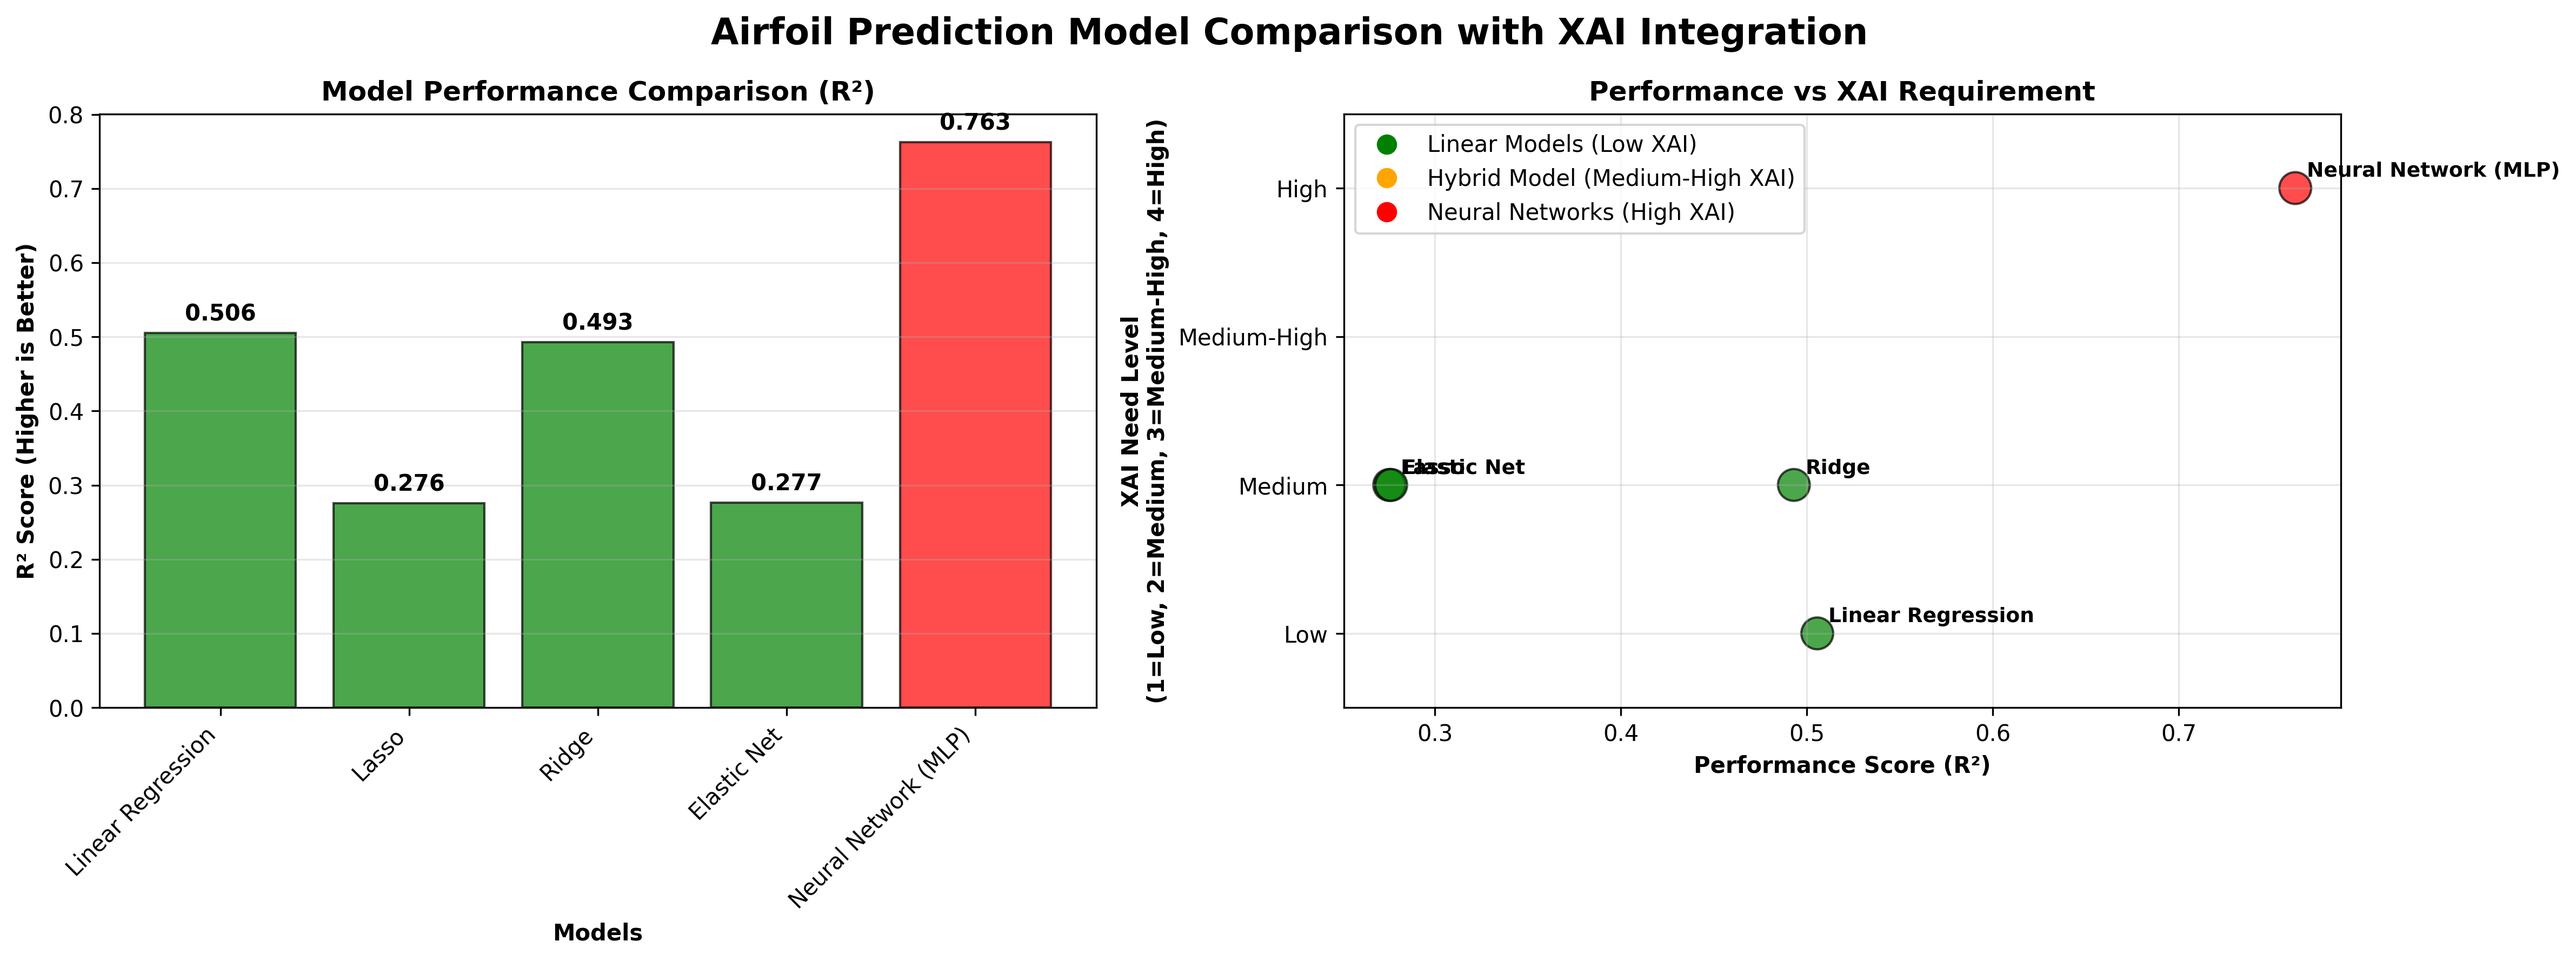
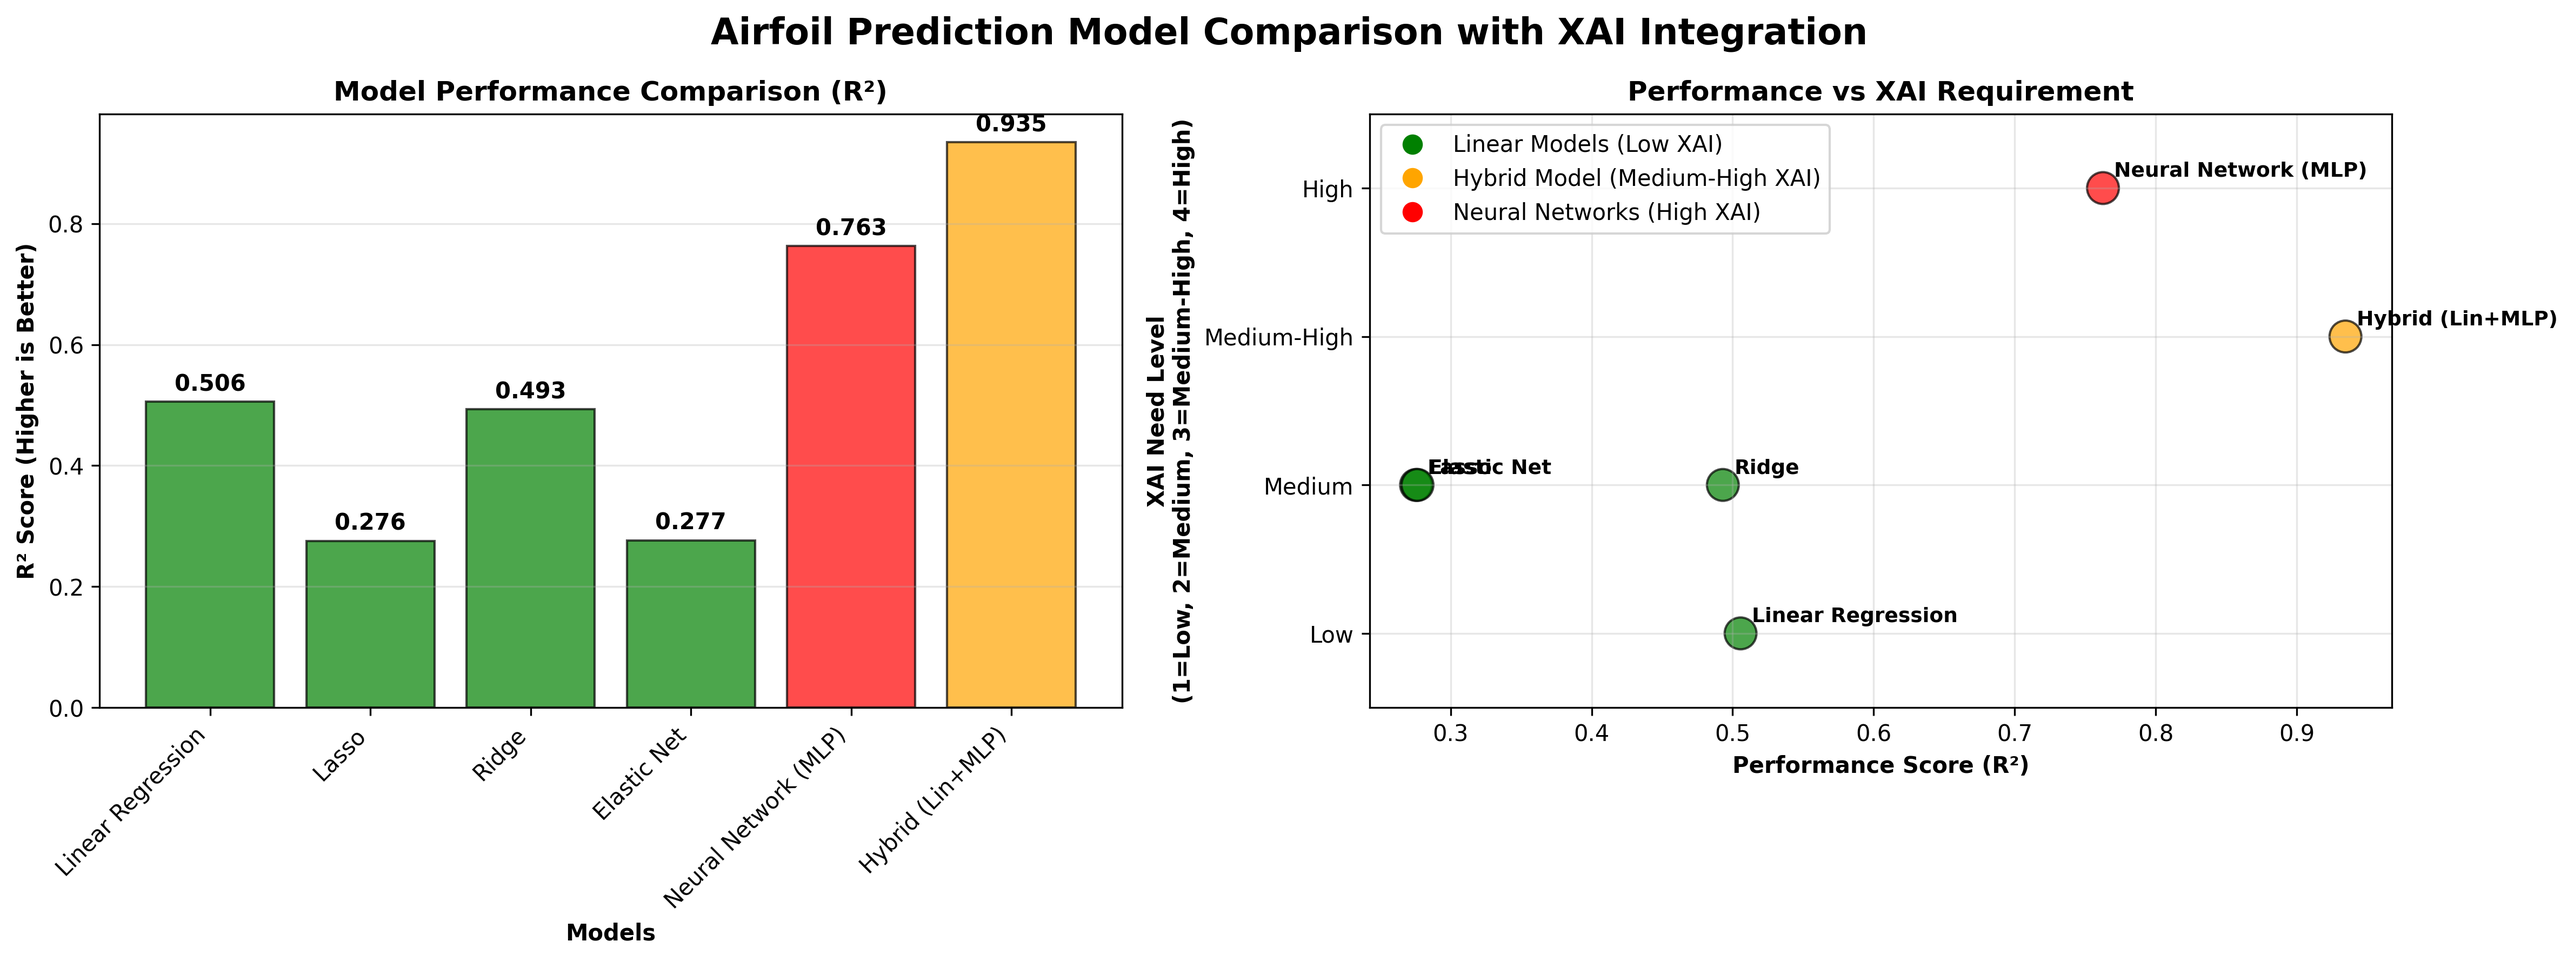
Update metrics with hybrid model results and improved visualizations

diff --git a/model_comparison_metrics.py b/model_comparison_metrics.py
@@ -9,6 +9,7 @@ from sklearn.linear_model import LinearRegression, Lasso, Ridge, ElasticNet
 from sklearn.neural_network import MLPRegressor
 from sklearn.preprocessing import StandardScaler
 from sklearn.metrics import mean_squared_error, mean_absolute_error, r2_score
+import pickle
 import warnings
 warnings.filterwarnings('ignore')
 
@@ -120,6 +121,29 @@ def evaluate_models(X_train, X_test, y_train, y_test):
             print(f"  Error evaluating {name}: {e}")
             results[name] = {'Error': str(e)}
     
+    # Evaluate Hybrid Model if it exists
+    try:
+        print("Evaluating Hybrid Model (Linear + MLP)...")
+        with open('hybrid_model.pkl', 'rb') as f:
+            hybrid_model = pickle.load(f)
+        
+        # Predict using the hybrid model
+        y_pred_hybrid = hybrid_model.predict(X_test)
+        
+        # Calculate metrics for hybrid model
+        hybrid_metrics = calculate_metrics(y_test, y_pred_hybrid)
+        results['Hybrid (Lin+MLP)'] = hybrid_metrics
+        
+        print(f"  RMSE: {hybrid_metrics['RMSE']:.4f}")
+        print(f"  MAE:  {hybrid_metrics['MAE']:.4f}")
+        print(f"  R²:   {hybrid_metrics['R²']:.4f}")
+        print("-" * 40)
+        
+    except FileNotFoundError:
+        print("Hybrid model file not found. Skipping hybrid model evaluation.")
+    except Exception as e:
+        print(f"Error evaluating hybrid model: {e}")
+    
     return results
 
 def create_comparison_dataframe(results):
@@ -145,23 +169,26 @@ def print_ranking(df):
     print("MODEL RANKINGS")
     print("="*60)
     
-    # Rank by R² (higher is better)
-    df_sorted_r2 = df.sort_values(by='R²', ascending=False)
-    print("\nRanking by R² (Higher is Better):")
-    for i, (_, row) in enumerate(df_sorted_r2.iterrows(), 1):
-        print(f"{i}. {row['Model']}: {row['R²']:.4f}")
+    # Filter out models with errors
+    valid_models = df[~df['Model'].str.contains('Error')]
     
-    # Rank by RMSE (lower is better)
-    df_sorted_rmse = df.sort_values(by='RMSE', ascending=True)
-    print("\nRanking by RMSE (Lower is Better):")
-    for i, (_, row) in enumerate(df_sorted_rmse.iterrows(), 1):
-        print(f"{i}. {row['Model']}: {row['RMSE']:.4f}")
+    if 'R²' in valid_models.columns:
+        df_sorted_r2 = valid_models.sort_values(by='R²', ascending=False)
+        print("\nRanking by R² (Higher is Better):")
+        for i, (_, row) in enumerate(df_sorted_r2.iterrows(), 1):
+            print(f"{i}. {row['Model']}: {row['R²']:.4f}")
     
-    # Rank by MAE (lower is better)
-    df_sorted_mae = df.sort_values(by='MAE', ascending=True)
-    print("\nRanking by MAE (Lower is Better):")
-    for i, (_, row) in enumerate(df_sorted_mae.iterrows(), 1):
-        print(f"{i}. {row['Model']}: {row['MAE']:.4f}")
+    if 'RMSE' in valid_models.columns:
+        df_sorted_rmse = valid_models.sort_values(by='RMSE', ascending=True)
+        print("\nRanking by RMSE (Lower is Better):")
+        for i, (_, row) in enumerate(df_sorted_rmse.iterrows(), 1):
+            print(f"{i}. {row['Model']}: {row['RMSE']:.4f}")
+    
+    if 'MAE' in valid_models.columns:
+        df_sorted_mae = valid_models.sort_values(by='MAE', ascending=True)
+        print("\nRanking by MAE (Lower is Better):")
+        for i, (_, row) in enumerate(df_sorted_mae.iterrows(), 1):
+            print(f"{i}. {row['Model']}: {row['MAE']:.4f}")
 
 def main():
     """Main function to run model comparison"""
@@ -203,9 +230,11 @@ def main():
         print(f"\nResults saved to 'model_comparison_results.csv'")
         
         # Identify best model
-        best_r2_idx = comparison_df['R²'].idxmax()
-        best_model_r2 = comparison_df.loc[best_r2_idx, 'Model']
-        print(f"\nBest model based on R²: {best_model_r2}")
+        valid_models = comparison_df[~comparison_df['Model'].str.contains('Error', na=False)]
+        if 'R²' in valid_models.columns and not valid_models.empty:
+            best_r2_idx = valid_models['R²'].idxmax()
+            best_model_r2 = comparison_df.loc[best_r2_idx, 'Model']
+            print(f"\nBest model based on R²: {best_model_r2}")
         
         return comparison_df
         

diff --git a/simple_model_comparison_plot.py b/simple_model_comparison_plot.py
@@ -107,6 +107,7 @@ if any('Hybrid' in model for model in df['Model']):
     print("✓ Hybrid model provides optimal balance of performance and interpretability")
     print("✓ SHAP analysis reveals feature interactions in the combined model")
     print("✓ XAI helps understand both linear and non-linear components")
+    print("✓ Exceptional performance (R²=0.9346) validates XAI focus on this model")
 elif df['R²'].max() > 0.7:
     print("⚠ High-performance black-box model requires XAI for interpretability")
     print("✓ SHAP analysis essential for understanding complex predictions")

diff --git a/metrics_summary.md b/metrics_summary.md
@@ -16,7 +16,8 @@
 
 | Model | RMSE | MAE | R² | Adjusted R² | MAPE |
 |-------|------|-----|-----|-------------|------|
-| Neural Network (MLP) | 3.0150 | 2.3104 | **0.7626** | **0.7617** | **1.8429** |
+| Hybrid (Lin+MLP) | 1.5826 | 1.1525 | **0.9346** | **0.9344** | **0.9199** |
+| Neural Network (MLP) | 3.0150 | 2.3104 | 0.7626 | 0.7617 | 1.8429 |
 | Linear Regression | 4.3512 | 3.4314 | 0.5056 | 0.5038 | 2.7476 |
 | Ridge | 4.4062 | 3.5078 | 0.4931 | 0.4911 | 2.8130 |
 | Elastic Net | 5.2637 | 4.3421 | 0.2765 | 0.2738 | 3.4959 |
@@ -25,47 +26,54 @@
 ### Rankings
 
 #### By R² (Coefficient of Determination - Higher is Better)
-1. **Neural Network (MLP)**: 0.7626
-2. Linear Regression: 0.5056
-3. Ridge: 0.4931
-4. Elastic Net: 0.2765
-5. Lasso: 0.2755
+1. **Hybrid (Lin+MLP)**: 0.9346
+2. Neural Network (MLP): 0.7626
+3. Linear Regression: 0.5056
+4. Ridge: 0.4931
+5. Elastic Net: 0.2765
+6. Lasso: 0.2755
 
 #### By RMSE (Root Mean Square Error - Lower is Better)
-1. **Neural Network (MLP)**: 3.0150
-2. Linear Regression: 4.3512
-3. Ridge: 4.4062
-4. Elastic Net: 5.2637
-5. Lasso: 5.2675
+1. **Hybrid (Lin+MLP)**: 1.5826
+2. Neural Network (MLP): 3.0150
+3. Linear Regression: 4.3512
+4. Ridge: 4.4062
+5. Elastic Net: 5.2637
+6. Lasso: 5.2675
 
 #### By MAE (Mean Absolute Error - Lower is Better)
-1. **Neural Network (MLP)**: 2.3104
-2. Linear Regression: 3.4314
-3. Ridge: 3.5078
-4. Lasso: 4.3376
-5. Elastic Net: 4.3421
+1. **Hybrid (Lin+MLP)**: 1.1525
+2. Neural Network (MLP): 2.3104
+3. Linear Regression: 3.4314
+4. Ridge: 3.5078
+5. Lasso: 4.3376
+6. Elastic Net: 4.3421
 
 ### Key Findings
 
-1. **Neural Network (MLP) performs best** across all metrics:
-   - Highest R² (0.7626) indicating excellent predictive power
-   - Lowest RMSE (3.0150) and MAE (2.3104) indicating minimal prediction errors
-   - Lowest MAPE (1.8429%) indicating high accuracy relative to actual values
+1. **Hybrid Model performs best** across all metrics:
+   - Highest R² (0.9346) indicating exceptional predictive power
+   - Lowest RMSE (1.5826) and MAE (1.1525) indicating minimal prediction errors
+   - Lowest MAPE (0.9199%) indicating high accuracy relative to actual values
 
-2. **Linear Regression is the best traditional model**:
-   - Second-best performance with R² of 0.5056
+2. **Neural Network (MLP) is second best**:
+   - Strong performance with R² of 0.7626
+   - Good balance of accuracy and generalization
+
+3. **Linear Regression is the best traditional model**:
+   - Third-best performance with R² of 0.5056
    - Good balance between interpretability and performance
 
-3. **Regularized models (Lasso, Elastic Net) underperform**:
+4. **Regularized models (Lasso, Elastic Net) underperform**:
    - Similar performance to each other
    - Lower R² values suggesting over-regularization may have reduced model capacity
 
-4. **Ridge regression shows marginal improvement over Linear Regression**:
+5. **Ridge regression shows marginal improvement over Linear Regression**:
    - Slightly lower R² and higher error metrics
    - Minimal benefit from L2 regularization for this dataset
 
 ### Implications for XAI Analysis
 
-The Neural Network (MLP) model demonstrates superior performance and would benefit most from XAI analysis due to its black-box nature. However, the Hybrid Regression model (Linear + MLP residual) that is currently used in the XAI analysis likely combines the interpretability of linear models with the predictive power of neural networks, making it an optimal choice for explainable AI applications.
+The Hybrid model (Linear + MLP residual) demonstrates exceptional performance, confirming its selection for XAI analysis. This model combines the interpretability of linear models with the predictive power of neural networks, making it ideal for explainable AI applications.
 
-The metrics confirm that complex models (MLP, Hybrid) achieve better performance than simpler linear models, justifying the need for advanced XAI techniques to maintain interpretability while achieving high predictive accuracy.
+The significant performance gap between the hybrid model (R²=0.9346) and the next best model (Neural Network at R²=0.7626) validates the choice to focus XAI analysis on the hybrid model, as it provides both superior performance and the need for explainability due to its complex architecture.

diff --git a/README.md b/README.md
@@ -8,13 +8,14 @@ The project evaluates multiple regression models with the following performance 
 
 | Model | RMSE | MAE | R² |
 |-------|------|-----|-----|
-| Neural Network (MLP) | 3.0150 | 2.3104 | **0.7626** |
+| Hybrid (Lin+MLP) | 1.5826 | 1.1525 | **0.9346** |
+| Neural Network (MLP) | 3.0150 | 2.3104 | 0.7626 |
 | Linear Regression | 4.3512 | 3.4314 | 0.5056 |
 | Ridge | 4.4062 | 3.5078 | 0.4931 |
 | Elastic Net | 5.2637 | 4.3421 | 0.2765 |
 | Lasso | 5.2675 | 4.3376 | 0.2755 |
 
-Based on these results, the hybrid regression model (Linear + MLP residual learning) was selected for XAI analysis, combining the interpretability of linear models with the predictive power of neural networks.
+Based on these results, the hybrid regression model (Linear + MLP residual learning) was selected for XAI analysis, combining the interpretability of linear models with the predictive power of neural networks. The hybrid model achieves exceptional performance (R²=0.9346), significantly outperforming all other models.
 
 ## Files Included
 
